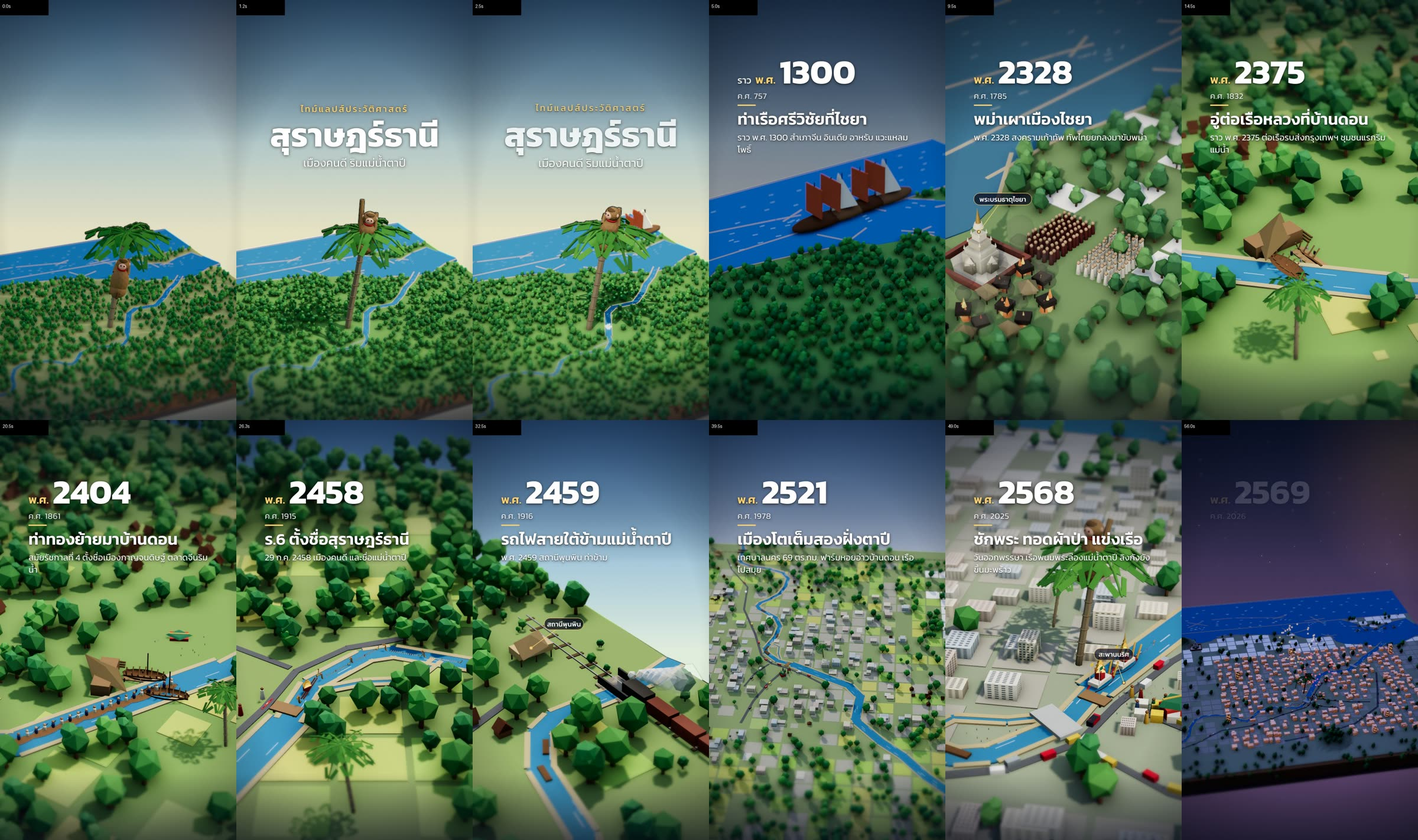
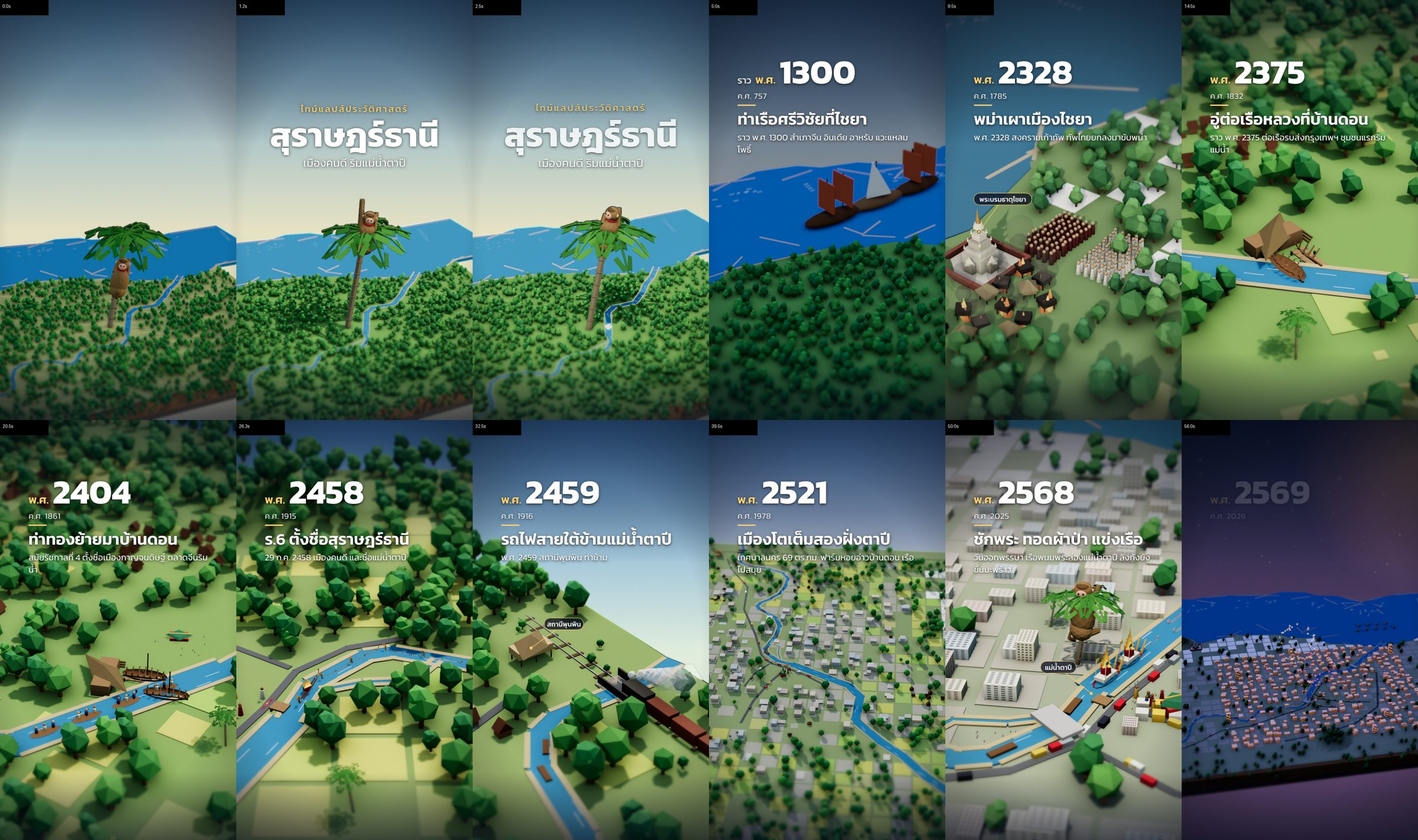
Surat Thani v1: fixes from the second model's review, stills passed for the loop
The bay is one wide path with no bank strips out at sea, the move beat's boats stand
apart, the junks no longer overlap or show under the intro, and the callback monkey
stays below the caption.

diff --git a/src/cities/suratthani/actors.ts b/src/cities/suratthani/actors.ts
@@ -116,11 +116,11 @@ export const splashK = (t: number) => (t - NUT_DROP - NUT_FALL) / 1.1;
 // in from the open bay at the tile's north-east, west along the bay to Laem Pho
 const SHIP_PATH: P[] = [[60, -76], [30, -72], [0, -70], [-20, -69.5], [LAEM_PHO[0] + 3, LAEM_PHO[1] - 8]];
 const SHIP_L = lengthOf(SHIP_PATH);
-export const SHIPS = 4;
+export const SHIPS = 3;
 export const shipAt = (i: number, t: number) => {
-  if (t < 2.4 || t > beatAt('fight', 0.3)) return null;
-  const k = clamp01((t - 2.4) / 5.2);
-  const d = lerp(0.25, 0.97, smooth(k)) * SHIP_L - i * 7;
+  if (t < 3.0 || t > beatAt('fight', 0.3)) return null;
+  const k = clamp01((t - 3.0) / 4.6);
+  const d = lerp(0.3, 0.97, smooth(k)) * SHIP_L - i * 14;
   if (d < 0) return null;
   return {...along(SHIP_PATH, d), sail: 1};
 };
@@ -157,13 +157,13 @@ export const SLIP_DIR = Math.atan2(PALM_OVER[0] - SHIPYARD[0] - 1.6, PALM_OVER[1
 // ------------------------------------------------------------------ Tha Thong moves to Ban Don
 const DOWN_L = lengthOf(TAPI_DOWN);
 const LANDING_AT = atAlong(TAPI_DOWN, LANDING);
-export const MOVE_BOATS = 7;
+export const MOVE_BOATS = 5;
 /** boats with the town's families coming up the lower reach to the Ban Don landing, 1.8 apart */
 export const moveBoatAt = (i: number, t: number) => {
   const k = beatK('move', t);
   if (k < -0.06 || k > 1.1) return null;
   const head = lerp(LANDING_AT + 14, LANDING_AT + 2.5, smooth(clamp01((k + 0.06) / 0.85)));
-  const d = Math.max(head + i * 1.8, LANDING_AT + 2.5 + i * 0.9);
+  const d = Math.max(head + i * 3.0, LANDING_AT + 2.5 + i * 2.8);
   if (d > DOWN_L - 1) return null;
   const p = along(TAPI_DOWN, d);
   // upstream: they face back along the path
@@ -231,7 +231,7 @@ export const monkeyBack = (t: number) => {
   const k = beatK('payoff', t);
   if (k < 0) return null;
   const grow = ramp(k, 0, 0.12);
-  const u = 0.25 + 0.45 * ramp(k, 0.1, 0.55);
+  const u = 0.2 + 0.32 * ramp(k, 0.1, 0.55);
   return {u, grow, climb: k < 0.55 ? t * 9 : 0.6, look: k > 0.55 ? Math.sin(t * 1.4) * 0.6 : 0};
 };
 

diff --git a/src/cities/suratthani/timeline.ts b/src/cities/suratthani/timeline.ts
@@ -8,7 +8,7 @@
 // closes the clip with the monkey back on a palm.
 import {between, type CameraKey} from '../../engine/glide';
 import {buildStory} from '../../engine/story';
-import {CHAIYA, LANDING, NARIT, PALM_BASE, PALM_OVER, SHIPYARD, SRI_SURAT, STATION, THA_KHAM} from './places';
+import {CHAIYA, LANDING, PALM_BASE, PALM_OVER, SHIPYARD, SRI_SURAT, STATION, THA_KHAM} from './places';
 
 type Key = CameraKey;
 // [t, target x, y, z, distance, azimuth, elevation, fov]
@@ -151,7 +151,7 @@ export const STORY = buildStory({
       t: [44.4, 53.6],
       year: {hold: 2025},
       caption: {t0: 44.4, t1: 53.8, title: 'ชักพระ ทอดผ้าป่า แข่งเรือ', sub: 'วันออกพรรษา เรือพนมพระล่องแม่น้ำตาปี ลิงกังยังขึ้นมะพร้าว'},
-      callouts: [{label: 'สะพานนริศ', dx: 150, dy: -130, p: [NARIT[0], 0.5, NARIT[1]], t0: 48.6, t1: 51.6}],
+      callouts: [{label: 'แม่น้ำตาปี', dx: -150, dy: -120, p: [0.6, 0.2, -4.0], t0: 48.6, t1: 51.6}],
       camera: [PY_IN, PY_END],
     },
     {id: 'today', kind: 'today', t: [54.0, 55.8], year: [2025.6, 2026]},

diff --git a/src/cities/suratthani/places.ts b/src/cities/suratthani/places.ts
@@ -32,8 +32,10 @@ export const COAST: P[] = [
   [-64, -63], [-46, -64.5], [-37, -59.3], [-30, -64], [-20, -64], [-4, -61], [2, -59.7], [9, -62.5], [14, -54], [24, -55],
   [29.5, -50], [31, -44.5], [38, -43], [42, -40.2], [47, -40.5], [56, -45.5], [64, -48],
 ];
-export const SEA_W = 18;
-export const SEA_PATH: P[] = COAST.map(([x, z]) => [x, z - SEA_W / 2 + 0.2]);
+export const SEA_W = 44;
+// one wide path whose south edge is the coast and whose north edge lies beyond the tile, so no bank strip
+// shows out in the bay; it runs past both tile edges
+export const SEA_PATH: P[] = [[-90, COAST[0][1]], ...COAST, [90, COAST[COAST.length - 1][1]]].map(([x, z]) => [x, z - SEA_W / 2 + 0.2] as P);
 
 // ---- Ban Don, the town on the Tapi's south-east bank
 export const PILLAR: P = [0, 0];

diff --git a/src/cities/suratthani/index.ts b/src/cities/suratthani/index.ts
@@ -44,9 +44,8 @@ export const SURATTHANI: CityConfig = {
       {path: TAPI_UP, width: TAPI_UP_W},
       {path: TAPI_DOWN, width: TAPI_DOWN_W},
       {path: LAMPHU_CH, width: LAMPHU_CH_W},
-      // Bandon Bay: a wide path whose south edge is the coast, and a band beyond it
+      // Bandon Bay: one wide path whose south edge is the coast
       {path: SEA_PATH, width: SEA_W},
-      {axis: 'x', pos: -84, width: 28},
     ],
     bridges: [
       // สะพานศรีสุราษฎร์ over the lower reach (1 Oct 2556) and สะพานศรีตาปี by the pillar (29 Jul 2562)

diff --git a/src/cities/suratthani/Landmarks.tsx b/src/cities/suratthani/Landmarks.tsx
@@ -338,8 +338,8 @@ const Landing: React.FC<{t: number; Y: number}> = ({t, Y}) => {
   return (
     <group position={[LANDING[0] + 0.7, 0, LANDING[1]]} rotation-y={-0.45}>
       {/* the timber landing stage out over the water */}
-      <Box p={[-0.9, 0.18, 0]} s={[1.8, 0.1, 0.9]} c="#8a6a48" />
-      {[-1.6, -0.3].map((x) => (
+      <Box p={[-0.45, 0.18, 0]} s={[1.0, 0.1, 0.8]} c="#8a6a48" />
+      {[-0.85, -0.1].map((x) => (
         <Box key={x} p={[x, 0.08, 0]} s={[0.1, 0.2, 0.9]} c="#5a4630" />
       ))}
       {/* the welcome arch with its flags, up for the visit */}
